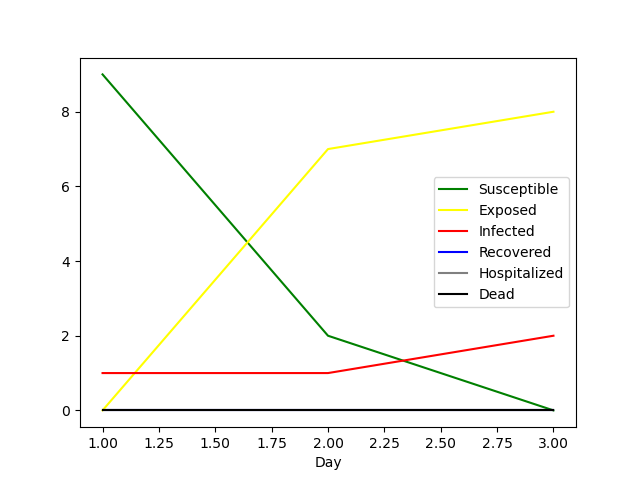
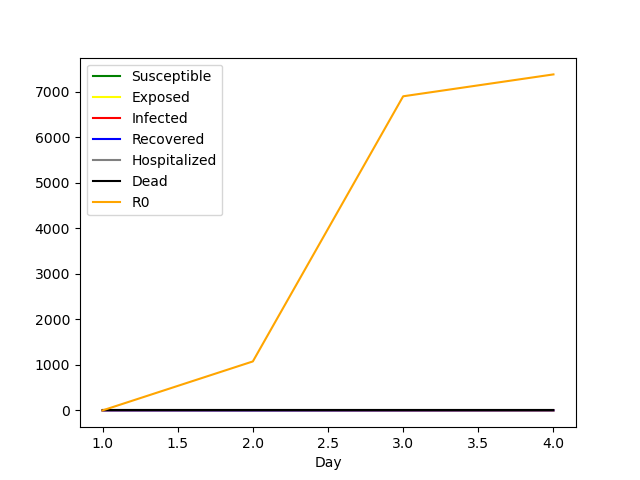
First implementation of R0 of real model

diff --git a/examples/Aran Covid/BCNCovid2020SEIRHD.py b/examples/Aran Covid/BCNCovid2020SEIRHD.py
@@ -26,7 +26,7 @@ import contextily as ctx
 from io import StringIO
 import json
 
-from iper import GeoSpacePandas
+#from iper import GeoSpacePandas
 
 import logging
 
@@ -65,9 +65,9 @@ class BCNCovid2020(Model):
 
         self.datacollector = DataCollector(
             {"SUSC": get_susceptible_count, "EXP": get_exposed_count, "INF": get_infected_count,
-             "REC": get_recovered_count, "HOSP": get_hosp_count, "DEAD": get_dead_count, },
+             "REC": get_recovered_count, "HOSP": get_hosp_count, "DEAD": get_dead_count, "R0": get_R0},
             tables={"Model_DC_Table": {"Day": [], "Susceptible": [], "Exposed": [], "Infected": [], "Recovered": [],
-                                 "Hospitalized": [], "Dead": []}}
+                                 "Hospitalized": [], "Dead": [], "R0": []}}
         )
 
         # variables for hospital data collector
@@ -121,6 +121,7 @@ class BCNCovid2020(Model):
                 self.collector_counts["SUSC"] -= 1
                 self.collector_counts["INF"] += 1  # Adjust initial counts
                 a.infecting_time = self.get_infection_time()
+                a.R0_contacts = [0, a.infecting_time, 0]
             print("Human agent " + str(a.unique_id) + " created")
 
         self.update_DC_table()  # record the first day stats on table
@@ -216,7 +217,7 @@ class BCNCovid2020(Model):
 
     def reset_counts(self):
         """ Sets to 0 the counts for the model datacollector """
-        self.collector_counts = {"SUSC": 0, "EXP": 0, "INF": 0, "REC": 0, "HOSP": 0, "DEAD": 0, }
+        self.collector_counts = {"SUSC": 0, "EXP": 0, "INF": 0, "REC": 0, "HOSP": 0, "DEAD": 0, "R0": 0, }
 
     def reset_hosp_counts(self):
         """ Sets to 0 the counts for the hospital datacollector """
@@ -226,7 +227,7 @@ class BCNCovid2020(Model):
         """Plot cases per country"""
         X = self.datacollector.get_table_dataframe("Model_DC_Table")
         X.to_csv(title+'.csv', index=False)  # get the csv
-        colors = ["Green", "Yellow", "Red", "Blue", "Gray", "Black"]
+        colors = ["Green", "Yellow", "Red", "Blue", "Gray", "Black", "Orange"]
         X.set_index('Day').plot.line(color=colors).get_figure().savefig(title)  # plot the stats
 
         Y = self.hosp_collector.get_table_dataframe("Hosp_DC_Table")
@@ -239,7 +240,7 @@ class BCNCovid2020(Model):
         next_row = {'Day': self.DateTime.day, 'Susceptible': get_susceptible_count(self),
                     'Exposed': get_exposed_count(self),
                     'Infected': get_infected_count(self), 'Recovered': get_recovered_count(self),
-                    'Hospitalized': get_hosp_count(self), 'Dead': get_dead_count(self)}
+                    'Hospitalized': get_hosp_count(self), 'Dead': get_dead_count(self), 'R0': get_R0(self)}
         self.datacollector.add_table_row("Model_DC_Table", next_row, ignore_missing=True)
 
         next_row2 = {'Day': self.DateTime.day, 'Hosp-Susceptible': get_h_susceptible_count(self),
@@ -262,6 +263,7 @@ class BCNCovid2020(Model):
         self.datacollector.collect(self)
         self.hosp_collector.collect(self)
         if current_step.day != self.DateTime.day:
+            self.calculate_R0()
             self.update_DC_table()
             self.clean_contact_list(current_step, Adays=2,
                                     Hdays=5, Tdays=10)  # clean contact lists from agents for faster computations
@@ -307,6 +309,33 @@ class BCNCovid2020(Model):
         #print(f"Lista total de testeados: {self.peopleTested}")
         #print(f"Lista total de agentes a testear: {self.peopleToTest}")
 
+    def calculate_R0(self):
+        """ R0: prob of transmission x contacts x days with disease """
+        R0_values = [1, 0, 0]
+        for human in [agent for agent in self.schedule.agents if isinstance(agent, BasicHuman)]:
+            if human.state == State.INF or human.state == State.EXP:
+                print(R0_values, human.R0_contacts, human.state)
+                contacts = human.R0_contacts[2]
+                if contacts == 0: contacts = 1
+                R0_values[0] += human.R0_contacts[0] / contacts
+                R0_values[1] += human.R0_contacts[1]
+                R0_values[2] += human.R0_contacts[2]
+
+                if human.state == State.INF:
+                    human.R0_contacts = [0, human.infecting_time, 0]
+                else:
+                    human.R0_contacts = [0, human.exposing_time, 0]
+
+        total_inf_exp = self.collector_counts["INF"] + self.collector_counts["EXP"]
+        if total_inf_exp == 0: total_inf_exp = 1
+        self.virus.R0 = round((R0_values[0] * R0_values[1] * R0_values[2])/total_inf_exp, 2)
+
+
+
+        #get agent.exposing_time
+        #get agent.infecting_time
+        pass
+
     def run_model(self, n):
         """ Runs the model for the 'n' number of steps """
         for i in range(n):
@@ -345,6 +374,10 @@ def get_hosp_count(model):
 def get_dead_count(model):
     """ Returns the Dead human agents in the model """
     return model.collector_counts["DEAD"]
+
+def get_R0(model):
+    """ Returns the R0 value of the model """
+    return model.virus.R0
 
 
 def get_h_susceptible_count(model):

diff --git a/examples/Aran Covid/Human_Class.py b/examples/Aran Covid/Human_Class.py
@@ -26,6 +26,8 @@ class BasicHuman(Agent):
         self.obj_place = None  # agent places to go
         self.friend_to_meet = set()  # to fill with Agent to meet
 
+        self.R0_contacts = []
+
     def __repr__(self):
         return "Agent " + str(self.unique_id)
 
@@ -171,7 +173,7 @@ class BasicHuman(Agent):
                 inf_time = self.model.get_infection_time()
                 self.infecting_time = inf_time
                 # if self.unique_id < 5: print(f"Agent {self.unique_id} is now infected for {inf_time} days ")
-
+                self.R0_contacts = [0, self.infecting_time, 0]
                 self.days_in_current_state = self.model.DateTime
 
 
@@ -187,6 +189,7 @@ class BasicHuman(Agent):
                     self.adjust_init_stats("INF", "HOSP", State.HOSP)
                     self.model.hosp_collector_counts['H-INF'] -= 1  # doesnt need to be, maybe it was not in the record
                     self.model.hosp_collector_counts['H-HOSP'] += 1
+                    self.R0_contacts = []
 
                     sev_time = self.model.get_severe_time()
                     self.hospitalized_time = sev_time
@@ -215,6 +218,7 @@ class BasicHuman(Agent):
                 self.presents_virus = False
                 im_time = self.model.get_immune_time()
                 self.immune_time = im_time
+                self.R0_contacts = []
                 # if self.unique_id < 5: print(f"Agent {self.unique_id} is now immune for {im_time} days ")
 
                 self.days_in_current_state = self.model.DateTime
@@ -273,10 +277,12 @@ class BasicHuman(Agent):
                     trans = np.random.choice([0, 1], p=[pTrans, 1 - pTrans])
                     if trans == 0 and (
                             self.state is State.INF or self.state is State.EXP) and other.state is State.SUSC:
+                        self.model.collector_counts['SUSC'] -= 1
+                        self.model.collector_counts['EXP'] += 1
                         other.state = State.EXP
                         other.days_in_current_state = self.model.DateTime
-                        in_time = self.model.get_incubation_time()
-                        other.exposing_time = in_time
+                        other.exposing_time = self.model.get_incubation_time()
+                        other.R0_contacts = [0, other.exposing_time, 0]
 
     def update_stats(self):
         """ Update Status dictionaries for data collector. """
@@ -308,7 +314,17 @@ class BasicHuman(Agent):
         else:
             self.contacts[self.model.DateTime.strftime('%Y-%m-%d')].add(contact)  # add contact to now's date
 
-        # print(f"Agent {self.unique_id} has now these contacts {self.contacts}")
+        # add contacts of infected people for R0 calculations
+        if self.state == State.INF or self.state == State.EXP:
+            if not self.R0_contacts:
+                if self.state == State.INF:
+                    self.R0_contacts = [self.model.virus.pTrans(self.mask, Mask.NONE), self.infecting_time, 1]
+                else:
+                    self.R0_contacts = [self.model.virus.pTrans(self.mask, Mask.NONE), self.exposing_time + self.model.virus.infection_days, 1]
+
+            else:
+                self.R0_contacts[0] += self.model.virus.pTrans(self.mask, Mask.NONE)
+                self.R0_contacts[2] += 1
 
     def step(self):
         """ Run one step taking into account the status, move, contact, and update_stats function. """

diff --git a/examples/Aran Covid/Covid_class.py b/examples/Aran Covid/Covid_class.py
@@ -5,7 +5,8 @@ import random, numpy
 class VirusCovid(object):
     def __init__(self, incubation_days, incubation_days_sd, infection_days, infection_days_sd, immune_days,
                  immune_days_sd, severe_days, severe_days_sd, ptrans, pSympt, pTest, death_rate,severe_rate):
-        # self.r0 = 2.5
+
+        self.R0 = 0
 
         # from EXP to INF
         self.incubation_days = incubation_days
@@ -33,6 +34,7 @@ class VirusCovid(object):
         pMask1 = Mask1.maskPtrans(Mask1)
         pMask2 = Mask2.maskPtrans(Mask2)
         return self.ptrans * pMask1 * pMask2
+
 
 
     def pDeathRate(self, model):

diff --git a/examples/Aran Covid/BCNCovid2020_Viz_SEIRHD.py b/examples/Aran Covid/BCNCovid2020_Viz_SEIRHD.py
@@ -95,6 +95,8 @@ infected_chart = ChartModule(
         {"Label": "REC", "Color": "Blue"},
         {"Label": "HOSP", "Color": "Gray"},
         {"Label": "DEAD", "Color": "Black"},
+        {"Label": "R0", "Color": "Orange"},
+
     ], data_collector_name="datacollector"
 )
 
